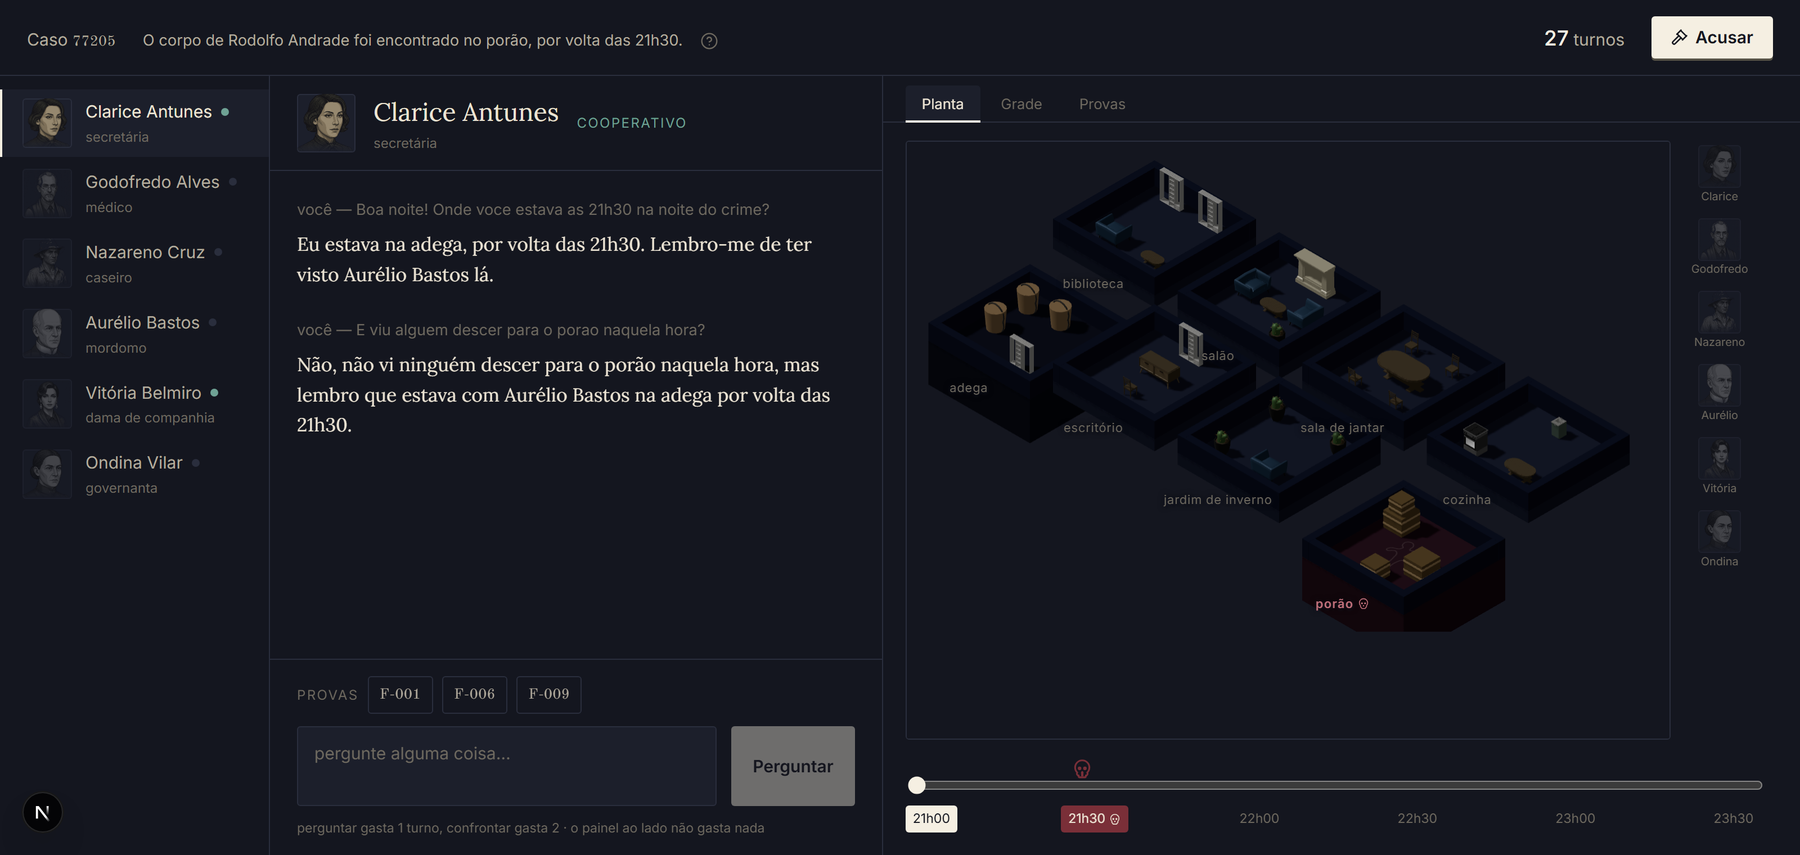
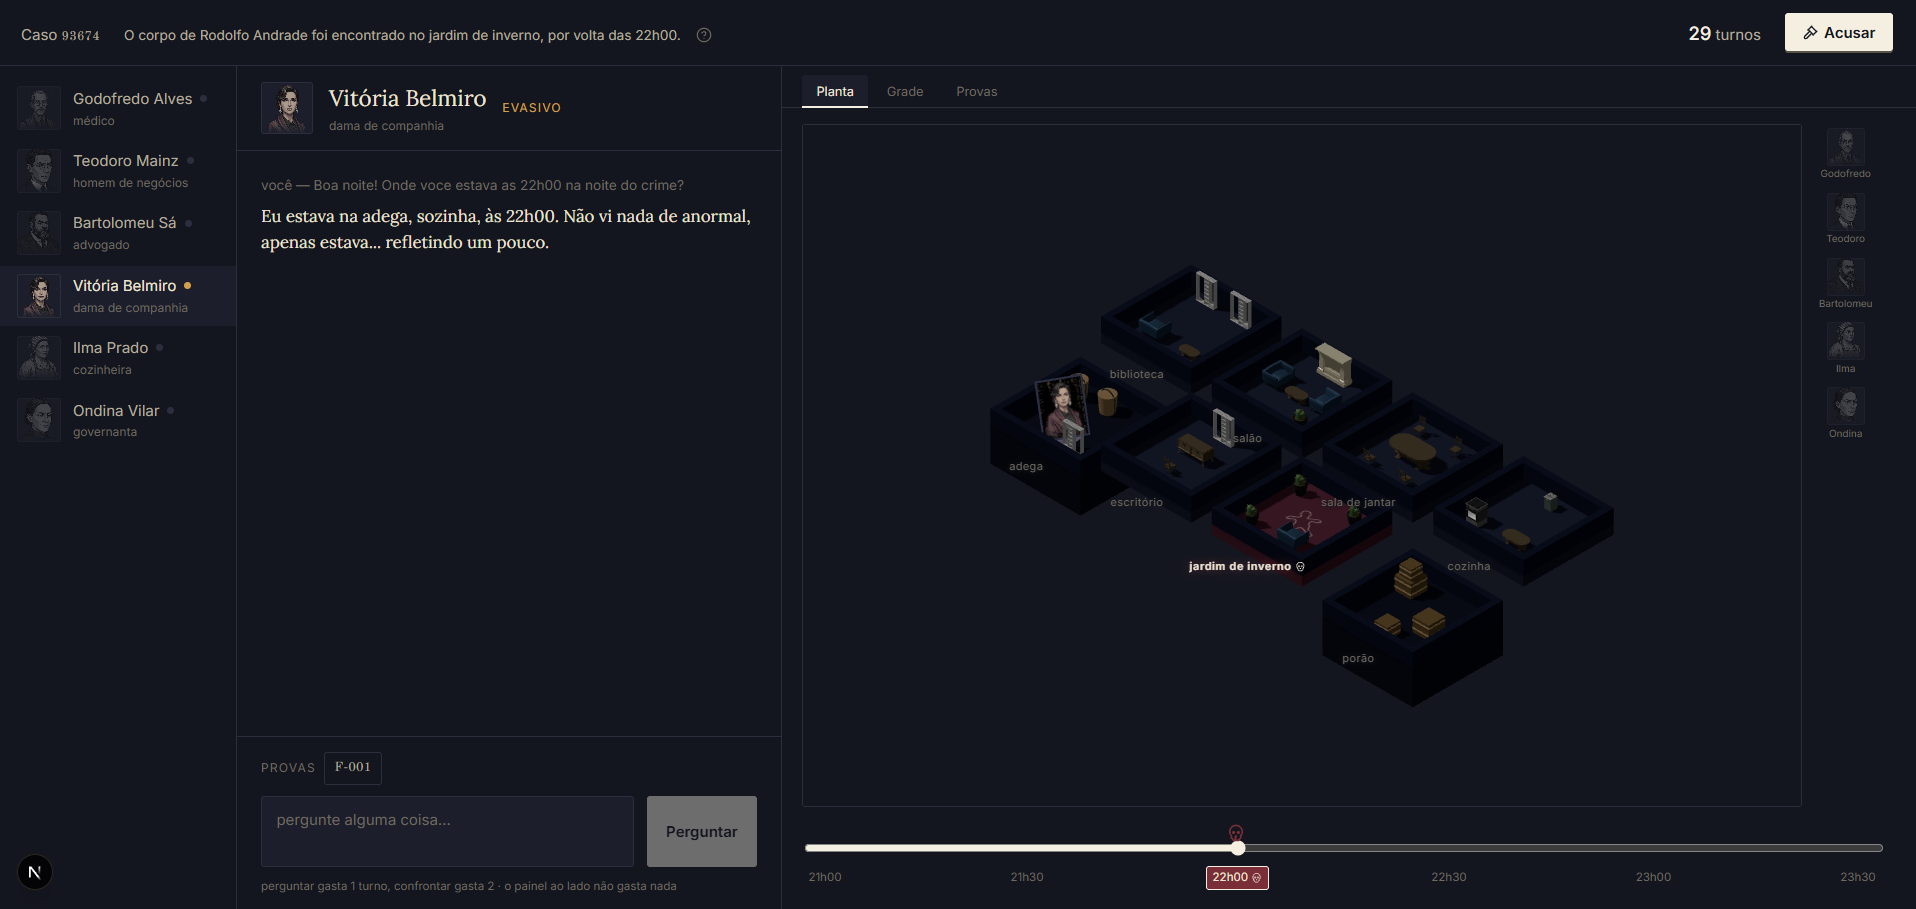
docs: draw the wordmark from the font instead of photographing it
The title was a crop of a rendered page — a picture of text. This is the
string "Firenze" drawn by Rubik Glitch itself, every glyph converted to
vector paths straight out of the font file the app ships, with the font's
own advance widths. Markdown on GitHub allows no CSS, so text in a custom
face is not possible; outlines are the closest thing that is still the
font and not a screenshot.

It scales to any size, weighs 13 KB, and comes in two inks so the name
stays legible whichever theme the reader is in.

The caption now describes the screenshot that is actually there: a
different case, a different suspect, and an answer written down on the
floor plan.

diff --git a/README.md b/README.md
@@ -1,5 +1,8 @@
 <p align="center">
-  <img src="docs/img/firenze.png" alt="Firenze" width="420">
+  <picture>
+    <source media="(prefers-color-scheme: dark)" srcset="docs/img/firenze.svg">
+    <img src="docs/img/firenze-claro.svg" alt="Firenze" width="420">
+  </picture>
 </p>
 
 An investigative mystery game where the suspects are LLM-driven NPCs. You
@@ -16,15 +19,18 @@ character has no way of knowing.
 > code. The words are still synthetic — the model provider (Magalu's AI Hub) is in
 > pilot — so the mechanics are playable and the prose is not yet worth reading.
 
-![A match in progress: the conversation on the left, the house and the night on
-the right](docs/img/partida.png)
+![A match in progress: the conversation with a suspect on the left, the floor
+plan of the house at the hour of the crime on the right](docs/img/partida.png)
 
-One screen, because the two halves are the same thought. On the left you are
-talking to Clarice, who says she was in the cellar and names Aurélio as the one
-who can say so. On the right you write that down — the floor plan at 21h30, the
-hour the body was found, marked in wine with a skull on the slider. The
-evidence you have pulled out of people sits between them, ready to be put back
-in somebody's face.
+One screen, because the two halves are the same thought. Vitória Belmiro has
+just said she was in the cellar at 22h00, alone — and the header says she has
+gone evasive. On the right that answer has been written down: her portrait
+dragged into the cellar, at the hour the slider is on, which is the hour the
+body was found. The conservatory carries the chalk outline and the skull,
+because that is where it was found.
+
+Nothing in the right-hand panel costs a turn. It is where you decide who you
+believe.
 
 ## See it work
 
